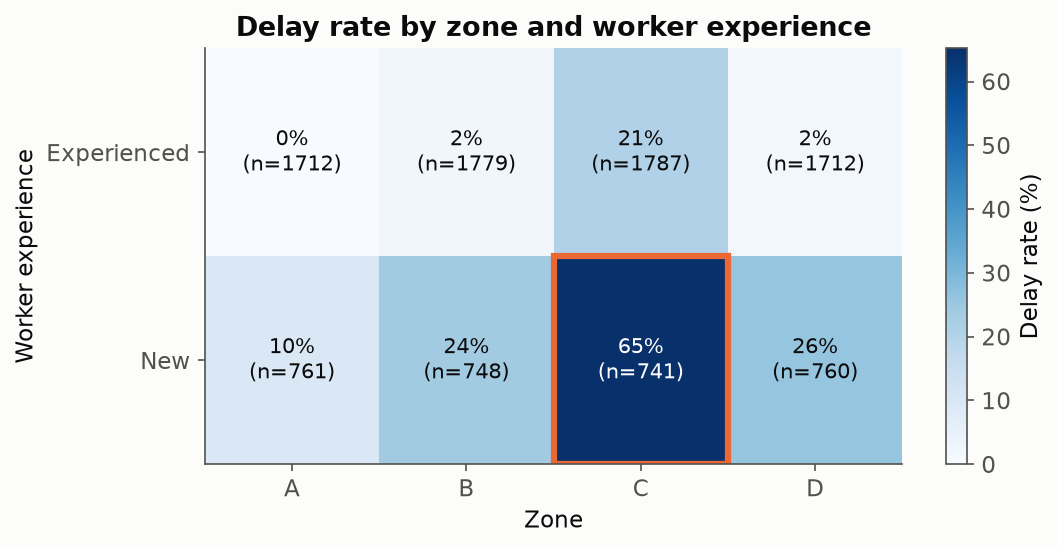
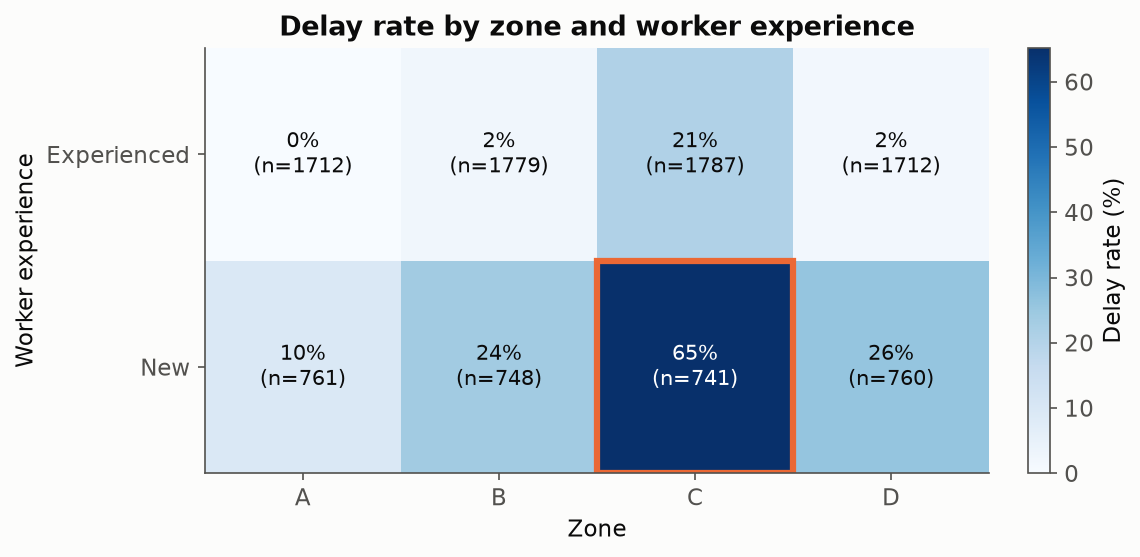
Fix-chart-labels

diff --git a/warehouse/charts.py b/warehouse/charts.py
@@ -49,13 +49,15 @@ def _zone_colours(zones) -> list[str]:
 
 def delay_rate_by_zone(zone: pd.DataFrame, out_dir: Path) -> Path:
     """Chart 1: delay rate per zone with Wilson 95% CI error bars."""
-    fig, ax = plt.subplots(figsize=(7, 4.2))
+    fig, ax = plt.subplots(layout="constrained", figsize=(7, 4.2))
     rate = zone["delay_rate"] * 100
     err = np.vstack([rate - zone["delay_rate_ci_low"] * 100, zone["delay_rate_ci_high"] * 100 - rate])
     ax.bar(zone["Zone"], rate, color=_zone_colours(zone["Zone"]), width=0.6,
            yerr=err, capsize=5, error_kw={"ecolor": C["text"], "lw": 1.2})
-    for x, v in zip(zone["Zone"], rate):
-        ax.annotate(f"{v:.1f}%", (x, v), xytext=(14, 4), textcoords="offset points", fontsize=10)
+    upper = zone["delay_rate_ci_high"] * 100
+    for x, v, top in zip(zone["Zone"], rate, upper):
+        ax.annotate(f"{v:.1f}%", (x, top), xytext=(0, 5), textcoords="offset points", ha="center", fontsize=10)
+    ax.set_ylim(0, upper.max() * 1.15)
     ax.set(title="Delay rate by zone (95% Wilson CI)", xlabel="Zone",
            ylabel=f"Orders over {config.DELAY_THRESHOLD:g} min (%)")
     return save(fig, out_dir, "01_delay_rate_by_zone.png")
@@ -63,25 +65,27 @@ def delay_rate_by_zone(zone: pd.DataFrame, out_dir: Path) -> Path:
 
 def share_orders_vs_delays(zone: pd.DataFrame, out_dir: Path) -> Path:
     """Chart 2: each zone's share of all orders next to its share of all delays."""
-    fig, ax = plt.subplots(figsize=(7.5, 4.2))
+    fig, ax = plt.subplots(layout="constrained", figsize=(7.5, 4.2))
     x = np.arange(len(zone))
     delay_colours = [C["highlight"] if z == config.KEY_ZONE else C["dark"] for z in zone["Zone"]]
     ax.bar(x - 0.2, zone["share_of_orders"] * 100, 0.38, color=C["neutral"], label="Share of all orders")
     ax.bar(x + 0.2, zone["share_of_delays"] * 100, 0.38, color=delay_colours,
-           label="Share of all delayed orders (Zone C highlighted)")
+           label="Share of all delayed orders")
     for xi, (o, d) in enumerate(zip(zone["share_of_orders"], zone["share_of_delays"])):
         ax.text(xi - 0.2, o * 100 + 1, f"{o:.0%}", ha="center", fontsize=9, color=C["muted"])
         ax.text(xi + 0.2, d * 100 + 1, f"{d:.0%}", ha="center", fontsize=9)
     ax.set_xticks(x, zone["Zone"])
     ax.set(title="Share of orders vs share of delays", xlabel="Zone", ylabel="Share (%)")
-    ax.legend(loc="upper left")
+    tallest = max(zone["share_of_orders"].max(), zone["share_of_delays"].max()) * 100
+    ax.set_ylim(0, tallest * 1.15)
+    fig.legend(loc="outside lower center", ncol=2)
     return save(fig, out_dir, "02_share_orders_vs_delays.png")
 
 
 def zone_experience_heatmap(table: pd.DataFrame, out_dir: Path) -> Path:
     """Chart 3: delay rate for every Zone x Worker Experience cell, annotated."""
     pivot = table.pivot(index="Worker Experience", columns="Zone", values="delay_rate").reindex(config.EXPERIENCE)
-    fig, ax = plt.subplots(figsize=(7.5, 3.6))
+    fig, ax = plt.subplots(layout="constrained", figsize=(7.5, 3.6))
     im = ax.imshow(pivot.to_numpy() * 100, cmap=config.HEATMAP_CMAP, vmin=0, aspect="auto")
     for (i, j), v in np.ndenumerate(pivot.to_numpy()):
         n = table[(table["Worker Experience"] == pivot.index[i]) & (table["Zone"] == pivot.columns[j])]["orders"].iloc[0]
@@ -99,16 +103,16 @@ def zone_experience_heatmap(table: pd.DataFrame, out_dir: Path) -> Path:
 
 def processing_time_by_zone(df: pd.DataFrame, out_dir: Path) -> Path:
     """Chart 4: processing-time distributions by zone with the delay threshold."""
-    fig, ax = plt.subplots(figsize=(7.5, 4.5))
+    fig, ax = plt.subplots(layout="constrained", figsize=(7.5, 4.5))
     data = [df.loc[df["Zone"] == z, "Processing Time"] for z in config.ZONES]
     box = ax.boxplot(data, patch_artist=True, widths=0.55, medianprops={"color": C["text"]},
                      flierprops={"marker": "o", "markersize": 3, "alpha": 0.4})
     ax.set_xticks(range(1, len(config.ZONES) + 1), config.ZONES)
     for patch, colour in zip(box["boxes"], _zone_colours(config.ZONES)):
         patch.set_facecolor(colour)
-    ax.axhline(config.DELAY_THRESHOLD, color=C["text"], ls="--", lw=1.2)
-    ax.text(4.45, config.DELAY_THRESHOLD + 0.3, f"{config.DELAY_THRESHOLD:g}-min delay threshold",
-            ha="right", fontsize=9)
+    ax.axhline(config.DELAY_THRESHOLD, color=C["text"], ls="--", lw=1.2,
+               label=f"{config.DELAY_THRESHOLD:g}-min delay threshold")
+    ax.legend(loc="upper left")
     ax.set(title="Processing time by zone", xlabel="Zone", ylabel="Processing time (min)")
     return save(fig, out_dir, "04_processing_time_by_zone.png")
 
@@ -119,7 +123,7 @@ def workload_confounding(per_shift: pd.DataFrame, out_dir: Path) -> Path:
     The overall upward trend comes from evening shifts being both busier and
     slower, not from workload itself.
     """
-    fig, ax = plt.subplots(figsize=(8, 4.6))
+    fig, ax = plt.subplots(layout="constrained", figsize=(8, 4.6))
     for shift in config.SHIFTS:
         part = per_shift[per_shift["Shift"] == shift]
         ax.scatter(part["Orders in Shift"], part["delay_rate"] * 100, s=28, alpha=0.8,
@@ -167,22 +171,23 @@ def validation_chart(validation: pd.DataFrame, out_dir: Path) -> Path:
         (v[v["section"] == "Pick time: no-effect checks"], "Pick time: no-effect checks",
          "Effect on pick time (%)", False),
     ]
-    fig, axes = plt.subplots(1, 3, figsize=(17, 6.2), gridspec_kw={"width_ratios": [1, 1.15, 1]})
+    heights = [len(rows) + 1.5 for rows, *_ in panels]
+    fig, axes = plt.subplots(3, 1, layout="constrained", figsize=(10, 0.42 * sum(heights) + 2),
+                             gridspec_kw={"height_ratios": heights})
     for ax, (rows, title, xlabel, relative) in zip(axes, panels):
         _forest(ax, rows, title, xlabel, relative)
     handles = [Line2D([], [], color=C["dark"], marker="o", lw=2.5, label="Estimate, 95% CI contains truth"),
                Line2D([], [], color=C["highlight"], marker="o", lw=2.5, label="Estimate, 95% CI misses truth"),
                Line2D([], [], color=C["truth"], marker="|", ms=14, mew=2, lw=0, label="True value")]
-    fig.legend(handles=handles, loc="lower center", ncol=3, bbox_to_anchor=(0.5, -0.04))
+    fig.legend(handles=handles, loc="outside lower center", ncol=3)
     fig.suptitle("Model validation: estimates vs the known true process", fontsize=14, fontweight="bold")
-    fig.tight_layout()
     return save(fig, out_dir, "06_validation_true_vs_estimate.png")
 
 
 def scenario_comparison(table: pd.DataFrame, best: str, out_dir: Path) -> Path:
     """Chart 7: delayed orders avoided per scenario with the bootstrap 95% range."""
     t = table[table["scenario"] != "S0"].iloc[::-1]
-    fig, ax = plt.subplots(figsize=(8.5, 4.8))
+    fig, ax = plt.subplots(layout="constrained", figsize=(8.5, 4.8))
     colours = [C["highlight"] if s == best else C["base"] for s in t["scenario"]]
     err = np.vstack([t["delayed_avoided"] - t["avoided_low"], t["avoided_high"] - t["delayed_avoided"]])
     ax.barh(t["scenario"], t["delayed_avoided"], color=colours, xerr=err, capsize=4,
@@ -201,11 +206,12 @@ def s3_sensitivity(table: pd.DataFrame, out_dir: Path) -> Path:
     deltas = [0.0] + [float(s.split("(")[1].split()[0]) for s in s3["scenario"]]
     rates = [table.loc[table["scenario"] == "S0", "zone_c_delay_rate"].iloc[0]] + list(s3["zone_c_delay_rate"])
     s1 = table.loc[table["scenario"] == "S1", "zone_c_delay_rate"].iloc[0]
-    fig, ax = plt.subplots(figsize=(7, 4.2))
+    fig, ax = plt.subplots(layout="constrained", figsize=(7, 4.2))
     ax.plot(deltas, np.array(rates) * 100, marker="o", color=C["dark"], lw=2, label="S3: layout change")
     ax.axhline(s1 * 100, color=C["highlight"], ls="--", lw=1.5, label="S1: support new workers")
     for d, r in zip(deltas, rates):
         ax.annotate(f"{r:.1%}", (d, r * 100), xytext=(5, 6), textcoords="offset points", fontsize=9)
+    ax.set_ylim(min(rates) * 100 - 2, max(rates) * 100 * 1.12)
     ax.set(title="Zone C delay rate vs layout improvement",
            xlabel="Reduction in Zone C base pick time, delta (min)", ylabel="Zone C delay rate (%)")
     ax.legend()
@@ -215,7 +221,7 @@ def s3_sensitivity(table: pd.DataFrame, out_dir: Path) -> Path:
 def threshold_sensitivity(sens: pd.DataFrame, out_dir: Path) -> Path:
     """Chart 9: scenario ranking (avoided per 100 changed orders) at each threshold."""
     thresholds = sorted(sens["threshold"].unique())
-    fig, axes = plt.subplots(1, len(thresholds), figsize=(15, 4.8), sharey=False)
+    fig, axes = plt.subplots(1, len(thresholds), layout="constrained", figsize=(15, 4.8), sharey=False)
     for ax, t in zip(np.atleast_1d(axes), thresholds):
         part = sens[sens["threshold"] == t].sort_values("avoided_per_100_affected")
         colours = [C["highlight"] if r == 1 else C["base"] for r in part["rank"]]
@@ -225,5 +231,4 @@ def threshold_sensitivity(sens: pd.DataFrame, out_dir: Path) -> Path:
         ax.grid(axis="y", visible=False)
     fig.suptitle("Is the best scenario the same at every delay threshold? (orange = rank 1)",
                  fontsize=13, fontweight="bold")
-    fig.tight_layout()
     return save(fig, out_dir, "09_threshold_sensitivity.png")
